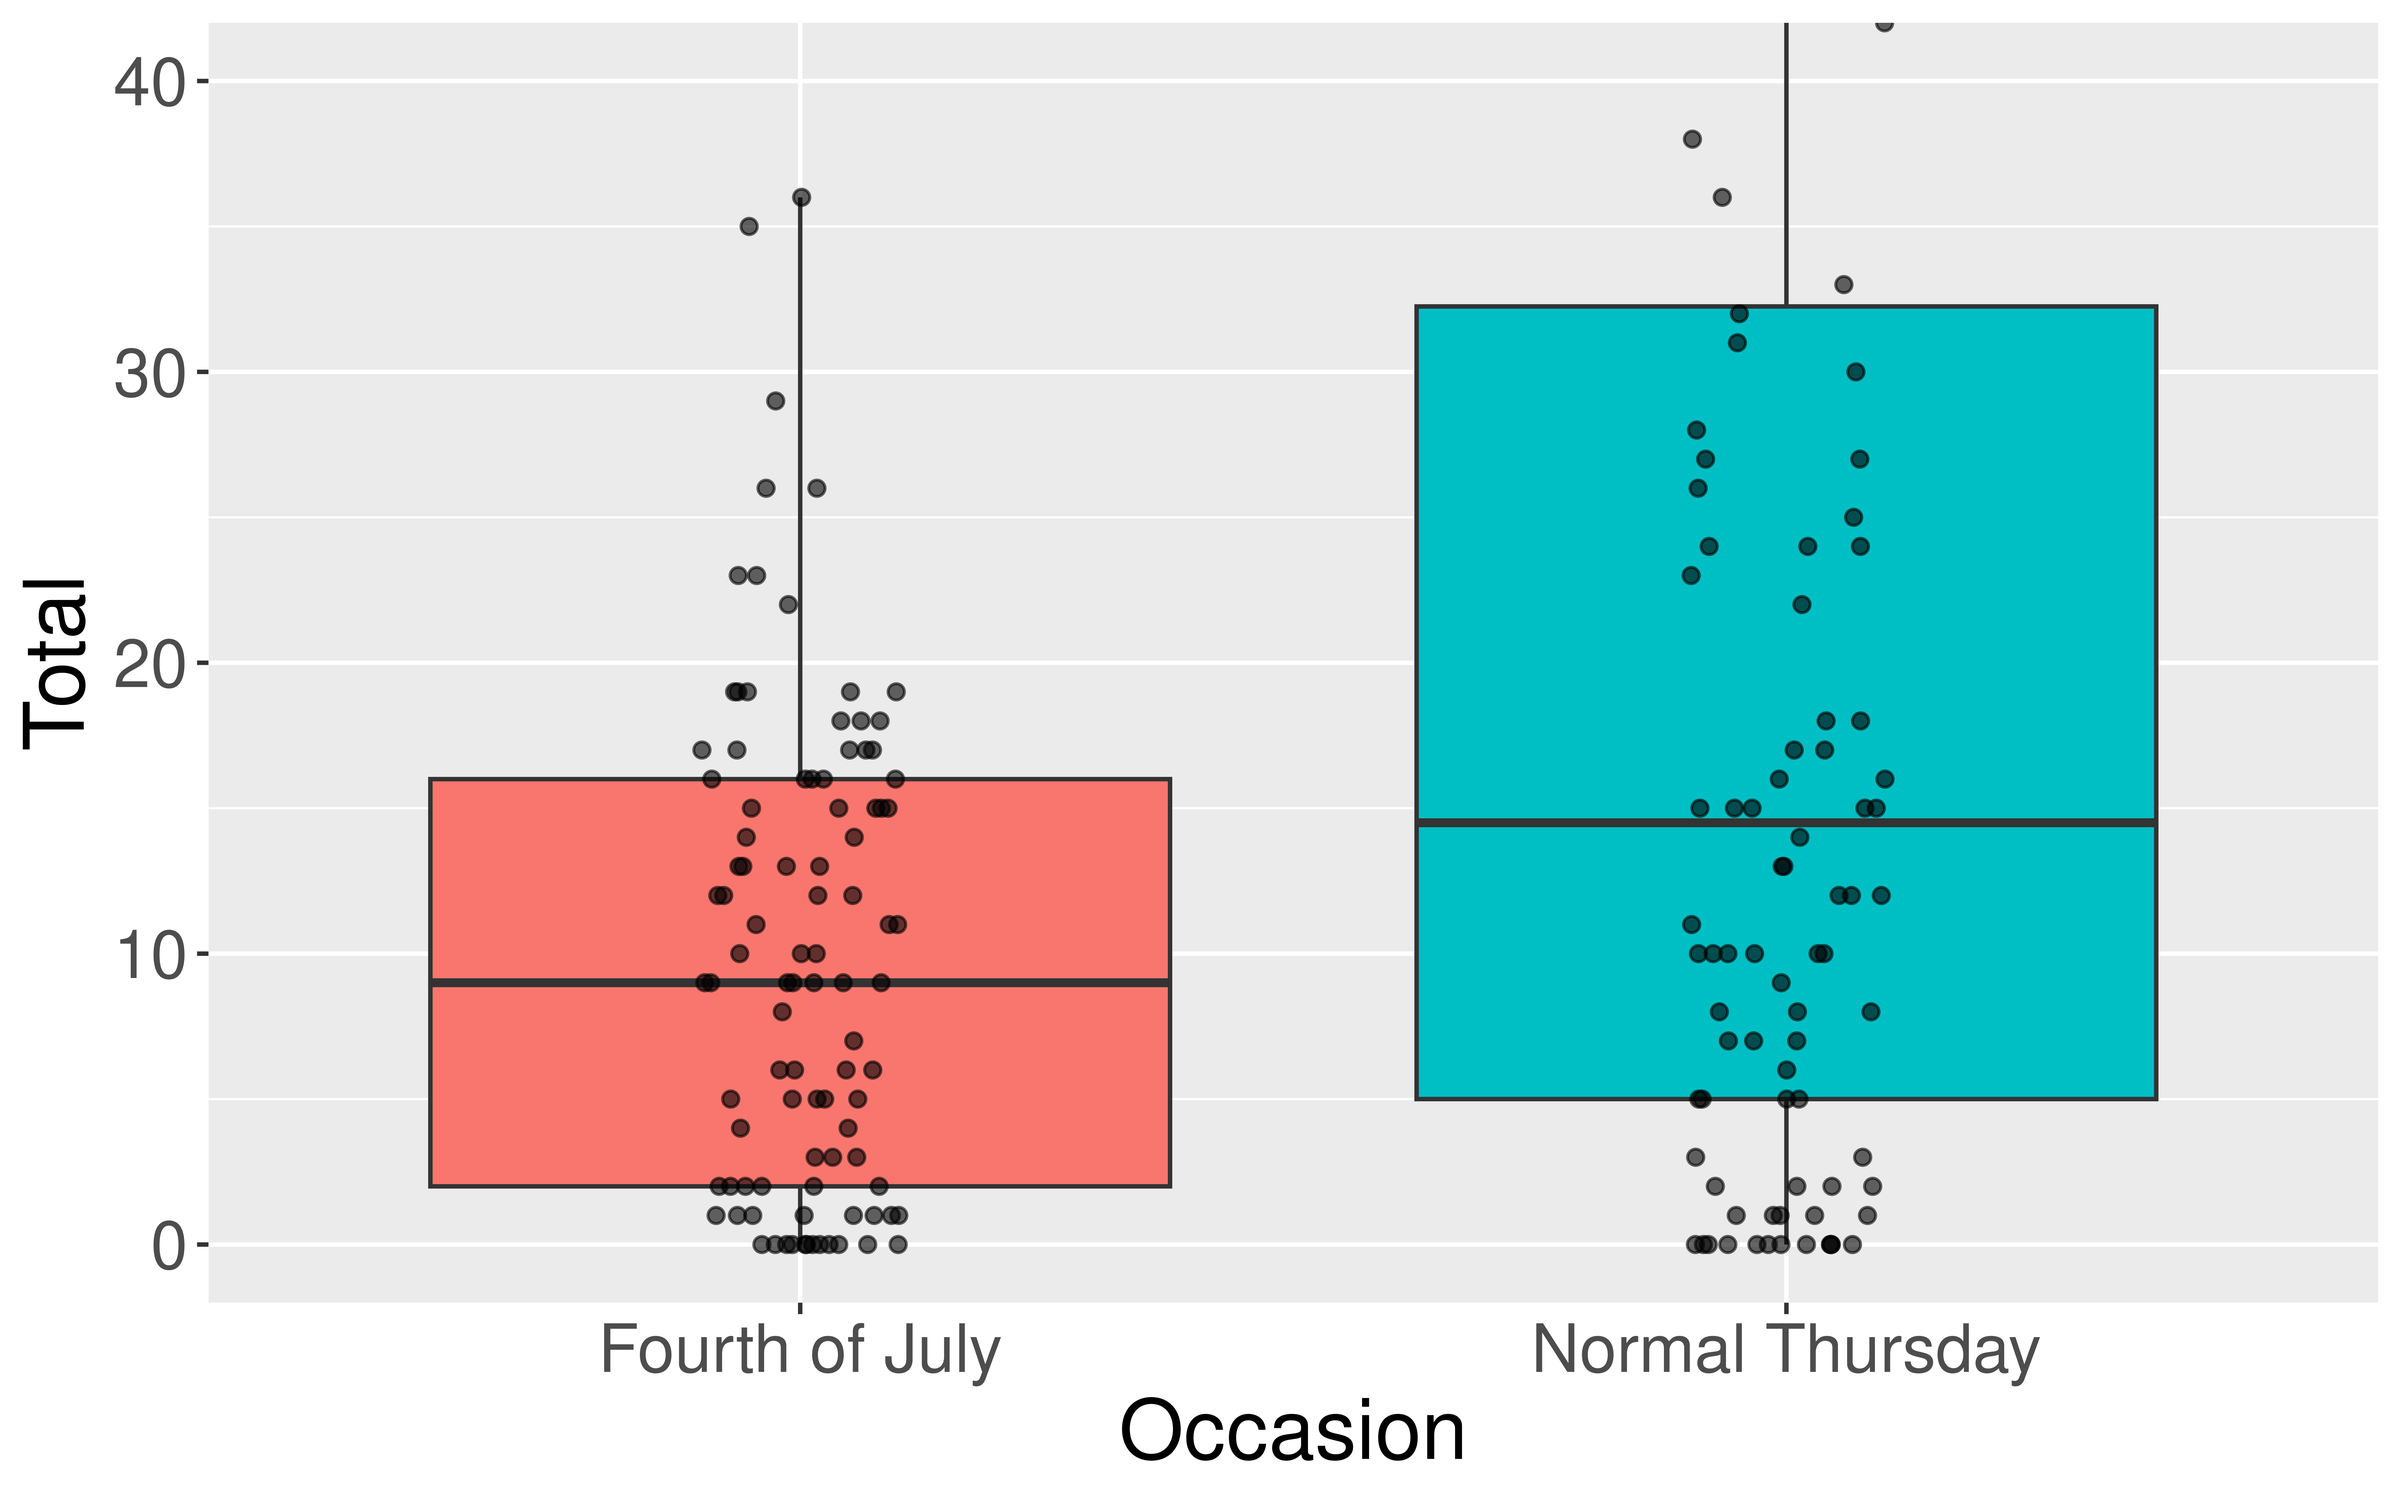
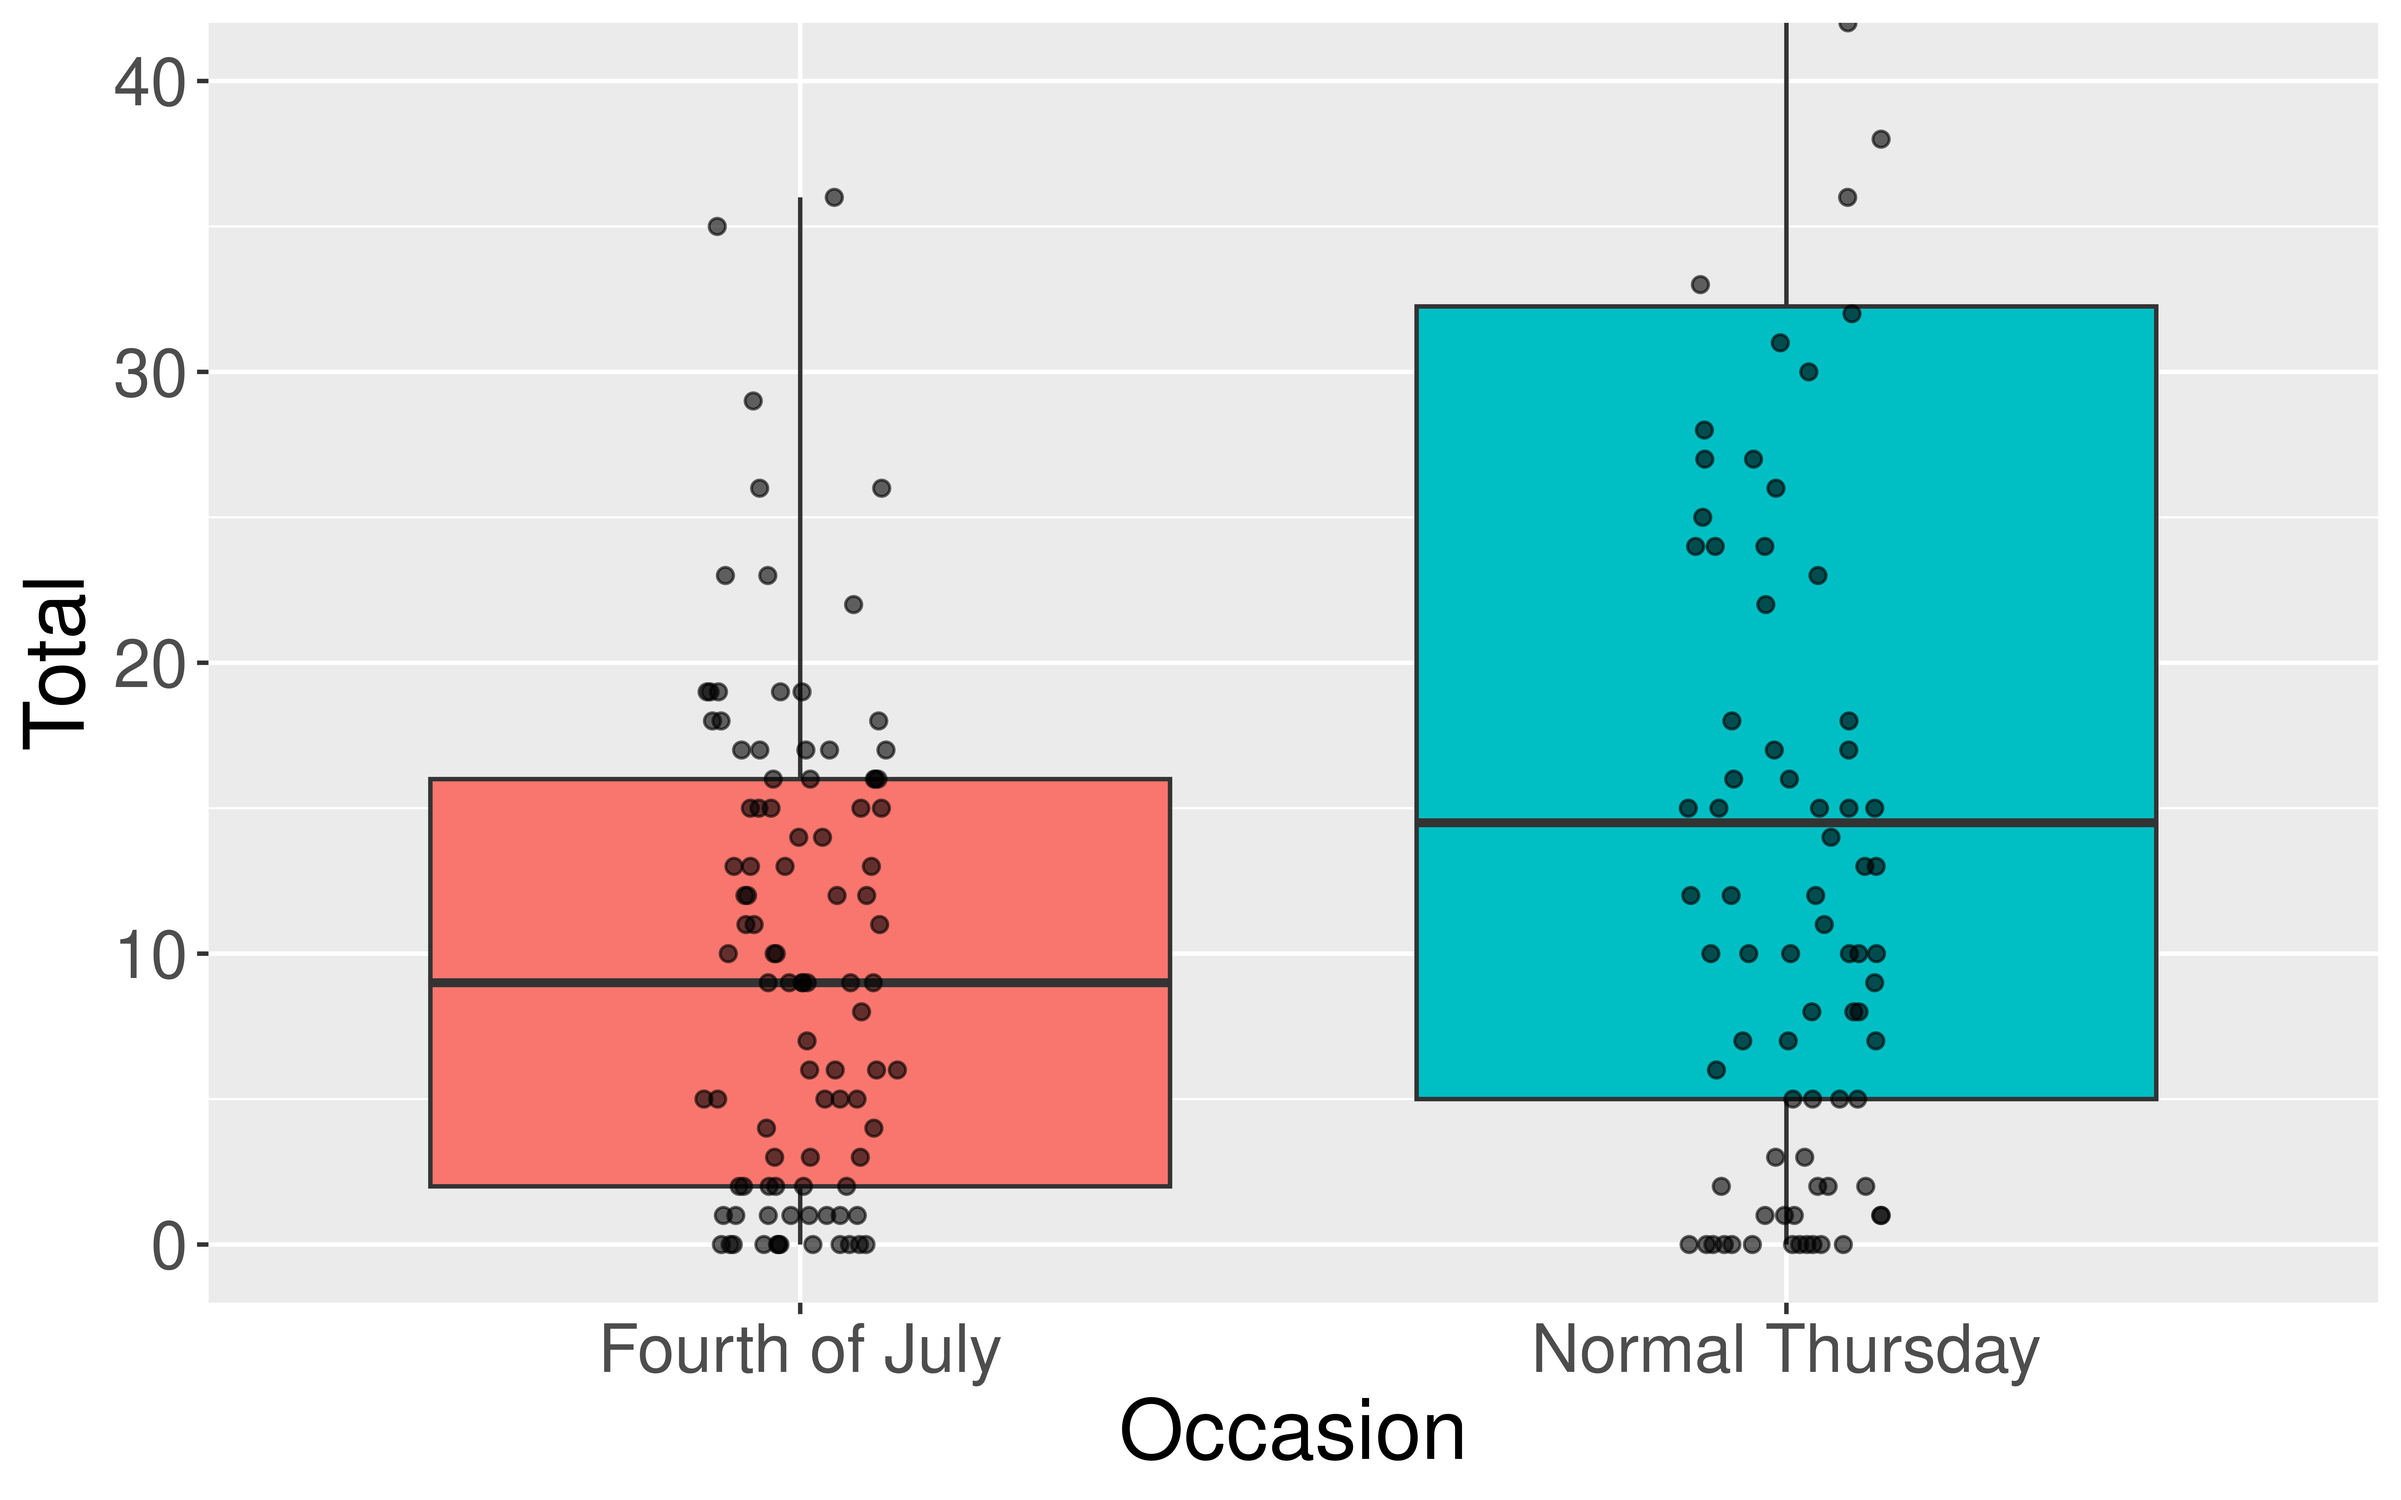
added survey

diff --git a/docs/stat100_wk04wed.html b/docs/stat100_wk04wed.html
@@ -832,7 +832,7 @@ $ INT_HOME &lt;lgl&gt; NA, NA, NA, NA, NA, NA, NA, NA, NA, NA, NA, NA, NA, NA, N
 <div class="sourceCode cell-code" id="cb12"><pre class="sourceCode numberSource r number-lines code-with-copy"><code class="sourceCode r"><span id="cb12-1"><a href="#cb12-1"></a><span class="fu">sample</span>(<span class="at">x =</span> <span class="dv">1</span><span class="sc">:</span><span class="dv">6755200</span>, <span class="at">size =</span> <span class="dv">1126</span>) <span class="sc">%&gt;%</span></span>
 <span id="cb12-2"><a href="#cb12-2"></a>  <span class="fu">head</span>()</span></code><button title="Copy to Clipboard" class="code-copy-button"><i class="bi"></i></button></pre></div>
 <div class="cell-output cell-output-stdout">
-<pre><code>[1]  221494 1741218  348047  695423 3491979 6464616</code></pre>
+<pre><code>[1]  309515 4757296 1591870 6344021 3803197 6699891</code></pre>
 </div>
 </div>
 </div>
@@ -871,7 +871,7 @@ $ INT_HOME &lt;lgl&gt; NA, NA, NA, NA, NA, NA, NA, NA, NA, NA, NA, NA, NA, NA, N
 <div class="cell" data-layout-align="center">
 <div class="sourceCode cell-code" id="cb14"><pre class="sourceCode numberSource r number-lines code-with-copy"><code class="sourceCode r"><span id="cb14-1"><a href="#cb14-1"></a><span class="fu">sample</span>(<span class="at">x =</span> <span class="dv">1</span><span class="sc">:</span><span class="dv">14</span>, <span class="at">size =</span> <span class="dv">2</span>) </span></code><button title="Copy to Clipboard" class="code-copy-button"><i class="bi"></i></button></pre></div>
 <div class="cell-output cell-output-stdout">
-<pre><code>[1] 14  1</code></pre>
+<pre><code>[1] 1 6</code></pre>
 </div>
 </div>
 </div>
@@ -911,7 +911,7 @@ $ INT_HOME &lt;lgl&gt; NA, NA, NA, NA, NA, NA, NA, NA, NA, NA, NA, NA, NA, NA, N
 <div class="cell" data-layout-align="center">
 <div class="sourceCode cell-code" id="cb16"><pre class="sourceCode numberSource r number-lines code-with-copy"><code class="sourceCode r"><span id="cb16-1"><a href="#cb16-1"></a><span class="fu">sample</span>(<span class="at">x =</span> <span class="dv">1</span><span class="sc">:</span><span class="dv">14</span>, <span class="at">size =</span> <span class="dv">2</span>) </span></code><button title="Copy to Clipboard" class="code-copy-button"><i class="bi"></i></button></pre></div>
 <div class="cell-output cell-output-stdout">
-<pre><code>[1] 12 14</code></pre>
+<pre><code>[1] 14  4</code></pre>
 </div>
 </div>
 <div class="cell" data-layout-align="center">
@@ -1017,7 +1017,7 @@ $ INT_HOME &lt;lgl&gt; NA, NA, NA, NA, NA, NA, NA, NA, NA, NA, NA, NA, NA, NA, N
 <div class="cell" data-layout-align="center">
 <div class="sourceCode cell-code" id="cb20"><pre class="sourceCode numberSource r number-lines code-with-copy"><code class="sourceCode r"><span id="cb20-1"><a href="#cb20-1"></a><span class="fu">sample</span>(<span class="at">x =</span> <span class="dv">1</span><span class="sc">:</span><span class="dv">6755200</span>, <span class="at">size =</span> <span class="dv">1</span>) </span></code><button title="Copy to Clipboard" class="code-copy-button"><i class="bi"></i></button></pre></div>
 <div class="cell-output cell-output-stdout">
-<pre><code>[1] 4451226</code></pre>
+<pre><code>[1] 540115</code></pre>
 </div>
 </div>
 </div>

diff --git a/stat100_wk04wed-speaker.html b/stat100_wk04wed-speaker.html
@@ -832,7 +832,7 @@ $ INT_HOME &lt;lgl&gt; NA, NA, NA, NA, NA, NA, NA, NA, NA, NA, NA, NA, NA, NA, N
 <div class="sourceCode cell-code" id="cb12"><pre class="sourceCode numberSource r number-lines code-with-copy"><code class="sourceCode r"><span id="cb12-1"><a href="#cb12-1"></a><span class="fu">sample</span>(<span class="at">x =</span> <span class="dv">1</span><span class="sc">:</span><span class="dv">6755200</span>, <span class="at">size =</span> <span class="dv">1126</span>) <span class="sc">%&gt;%</span></span>
 <span id="cb12-2"><a href="#cb12-2"></a>  <span class="fu">head</span>()</span></code><button title="Copy to Clipboard" class="code-copy-button"><i class="bi"></i></button></pre></div>
 <div class="cell-output cell-output-stdout">
-<pre><code>[1]  221494 1741218  348047  695423 3491979 6464616</code></pre>
+<pre><code>[1]  309515 4757296 1591870 6344021 3803197 6699891</code></pre>
 </div>
 </div>
 </div>
@@ -871,7 +871,7 @@ $ INT_HOME &lt;lgl&gt; NA, NA, NA, NA, NA, NA, NA, NA, NA, NA, NA, NA, NA, NA, N
 <div class="cell" data-layout-align="center">
 <div class="sourceCode cell-code" id="cb14"><pre class="sourceCode numberSource r number-lines code-with-copy"><code class="sourceCode r"><span id="cb14-1"><a href="#cb14-1"></a><span class="fu">sample</span>(<span class="at">x =</span> <span class="dv">1</span><span class="sc">:</span><span class="dv">14</span>, <span class="at">size =</span> <span class="dv">2</span>) </span></code><button title="Copy to Clipboard" class="code-copy-button"><i class="bi"></i></button></pre></div>
 <div class="cell-output cell-output-stdout">
-<pre><code>[1] 14  1</code></pre>
+<pre><code>[1] 1 6</code></pre>
 </div>
 </div>
 </div>
@@ -911,7 +911,7 @@ $ INT_HOME &lt;lgl&gt; NA, NA, NA, NA, NA, NA, NA, NA, NA, NA, NA, NA, NA, NA, N
 <div class="cell" data-layout-align="center">
 <div class="sourceCode cell-code" id="cb16"><pre class="sourceCode numberSource r number-lines code-with-copy"><code class="sourceCode r"><span id="cb16-1"><a href="#cb16-1"></a><span class="fu">sample</span>(<span class="at">x =</span> <span class="dv">1</span><span class="sc">:</span><span class="dv">14</span>, <span class="at">size =</span> <span class="dv">2</span>) </span></code><button title="Copy to Clipboard" class="code-copy-button"><i class="bi"></i></button></pre></div>
 <div class="cell-output cell-output-stdout">
-<pre><code>[1] 12 14</code></pre>
+<pre><code>[1] 14  4</code></pre>
 </div>
 </div>
 <div class="cell" data-layout-align="center">
@@ -1017,7 +1017,7 @@ $ INT_HOME &lt;lgl&gt; NA, NA, NA, NA, NA, NA, NA, NA, NA, NA, NA, NA, NA, NA, N
 <div class="cell" data-layout-align="center">
 <div class="sourceCode cell-code" id="cb20"><pre class="sourceCode numberSource r number-lines code-with-copy"><code class="sourceCode r"><span id="cb20-1"><a href="#cb20-1"></a><span class="fu">sample</span>(<span class="at">x =</span> <span class="dv">1</span><span class="sc">:</span><span class="dv">6755200</span>, <span class="at">size =</span> <span class="dv">1</span>) </span></code><button title="Copy to Clipboard" class="code-copy-button"><i class="bi"></i></button></pre></div>
 <div class="cell-output cell-output-stdout">
-<pre><code>[1] 4451226</code></pre>
+<pre><code>[1] 540115</code></pre>
 </div>
 </div>
 </div>

diff --git a/docs/stat100_wk07wed.html b/docs/stat100_wk07wed.html
@@ -422,10 +422,15 @@
 </div>
 </div>
 </section>
-<section>
-<section id="but-first-a-quick-survey." class="title-slide slide level1 center">
-<h1>But first, a quick survey.</h1>
+<section id="but-first-does-everyone-have-their-randomly-generated-number" class="title-slide slide level1 center">
+<h1>But first, does everyone have their randomly generated number?</h1>
 
+</section>
+
+<section>
+<section id="then-lets-do-a-quick-survey." class="title-slide slide level1 center">
+<h1>Then let’s do a quick survey.</h1>
+<p>Go to <a href="https://bit.ly/stat-100-pumpkin">bit.ly/stat-100-pumpkin</a></p>
 </section>
 <section class="slide level2">
 

diff --git a/stat100_wk07wed-speaker.html b/stat100_wk07wed-speaker.html
@@ -422,10 +422,15 @@
 </div>
 </div>
 </section>
-<section>
-<section id="but-first-a-quick-survey." class="title-slide slide level1 center">
-<h1>But first, a quick survey.</h1>
+<section id="but-first-does-everyone-have-their-randomly-generated-number" class="title-slide slide level1 center">
+<h1>But first, does everyone have their randomly generated number?</h1>
 
+</section>
+
+<section>
+<section id="then-lets-do-a-quick-survey." class="title-slide slide level1 center">
+<h1>Then let’s do a quick survey.</h1>
+<p>Go to <a href="https://bit.ly/stat-100-pumpkin">bit.ly/stat-100-pumpkin</a></p>
 </section>
 <section class="slide level2">
 

diff --git a/docs/stat100_wk07mon.html b/docs/stat100_wk07mon.html
@@ -407,6 +407,7 @@
 <section id="announcements" class="slide level2">
 <h2>Announcements</h2>
 <ul>
+<li class="fragment">This Wednesday we will be in Sanders Hall instead of Hall C.</li>
 <li class="fragment">Back to a normal schedule.
 <ul>
 <li class="fragment">Have section &amp; wrap-ups this week!</li>

diff --git a/stat100_wk07mon-speaker.html b/stat100_wk07mon-speaker.html
@@ -407,6 +407,7 @@
 <section id="announcements" class="slide level2">
 <h2>Announcements</h2>
 <ul>
+<li class="fragment">This Wednesday we will be in Sanders Hall instead of Hall C.</li>
 <li class="fragment">Back to a normal schedule.
 <ul>
 <li class="fragment">Have section &amp; wrap-ups this week!</li>
